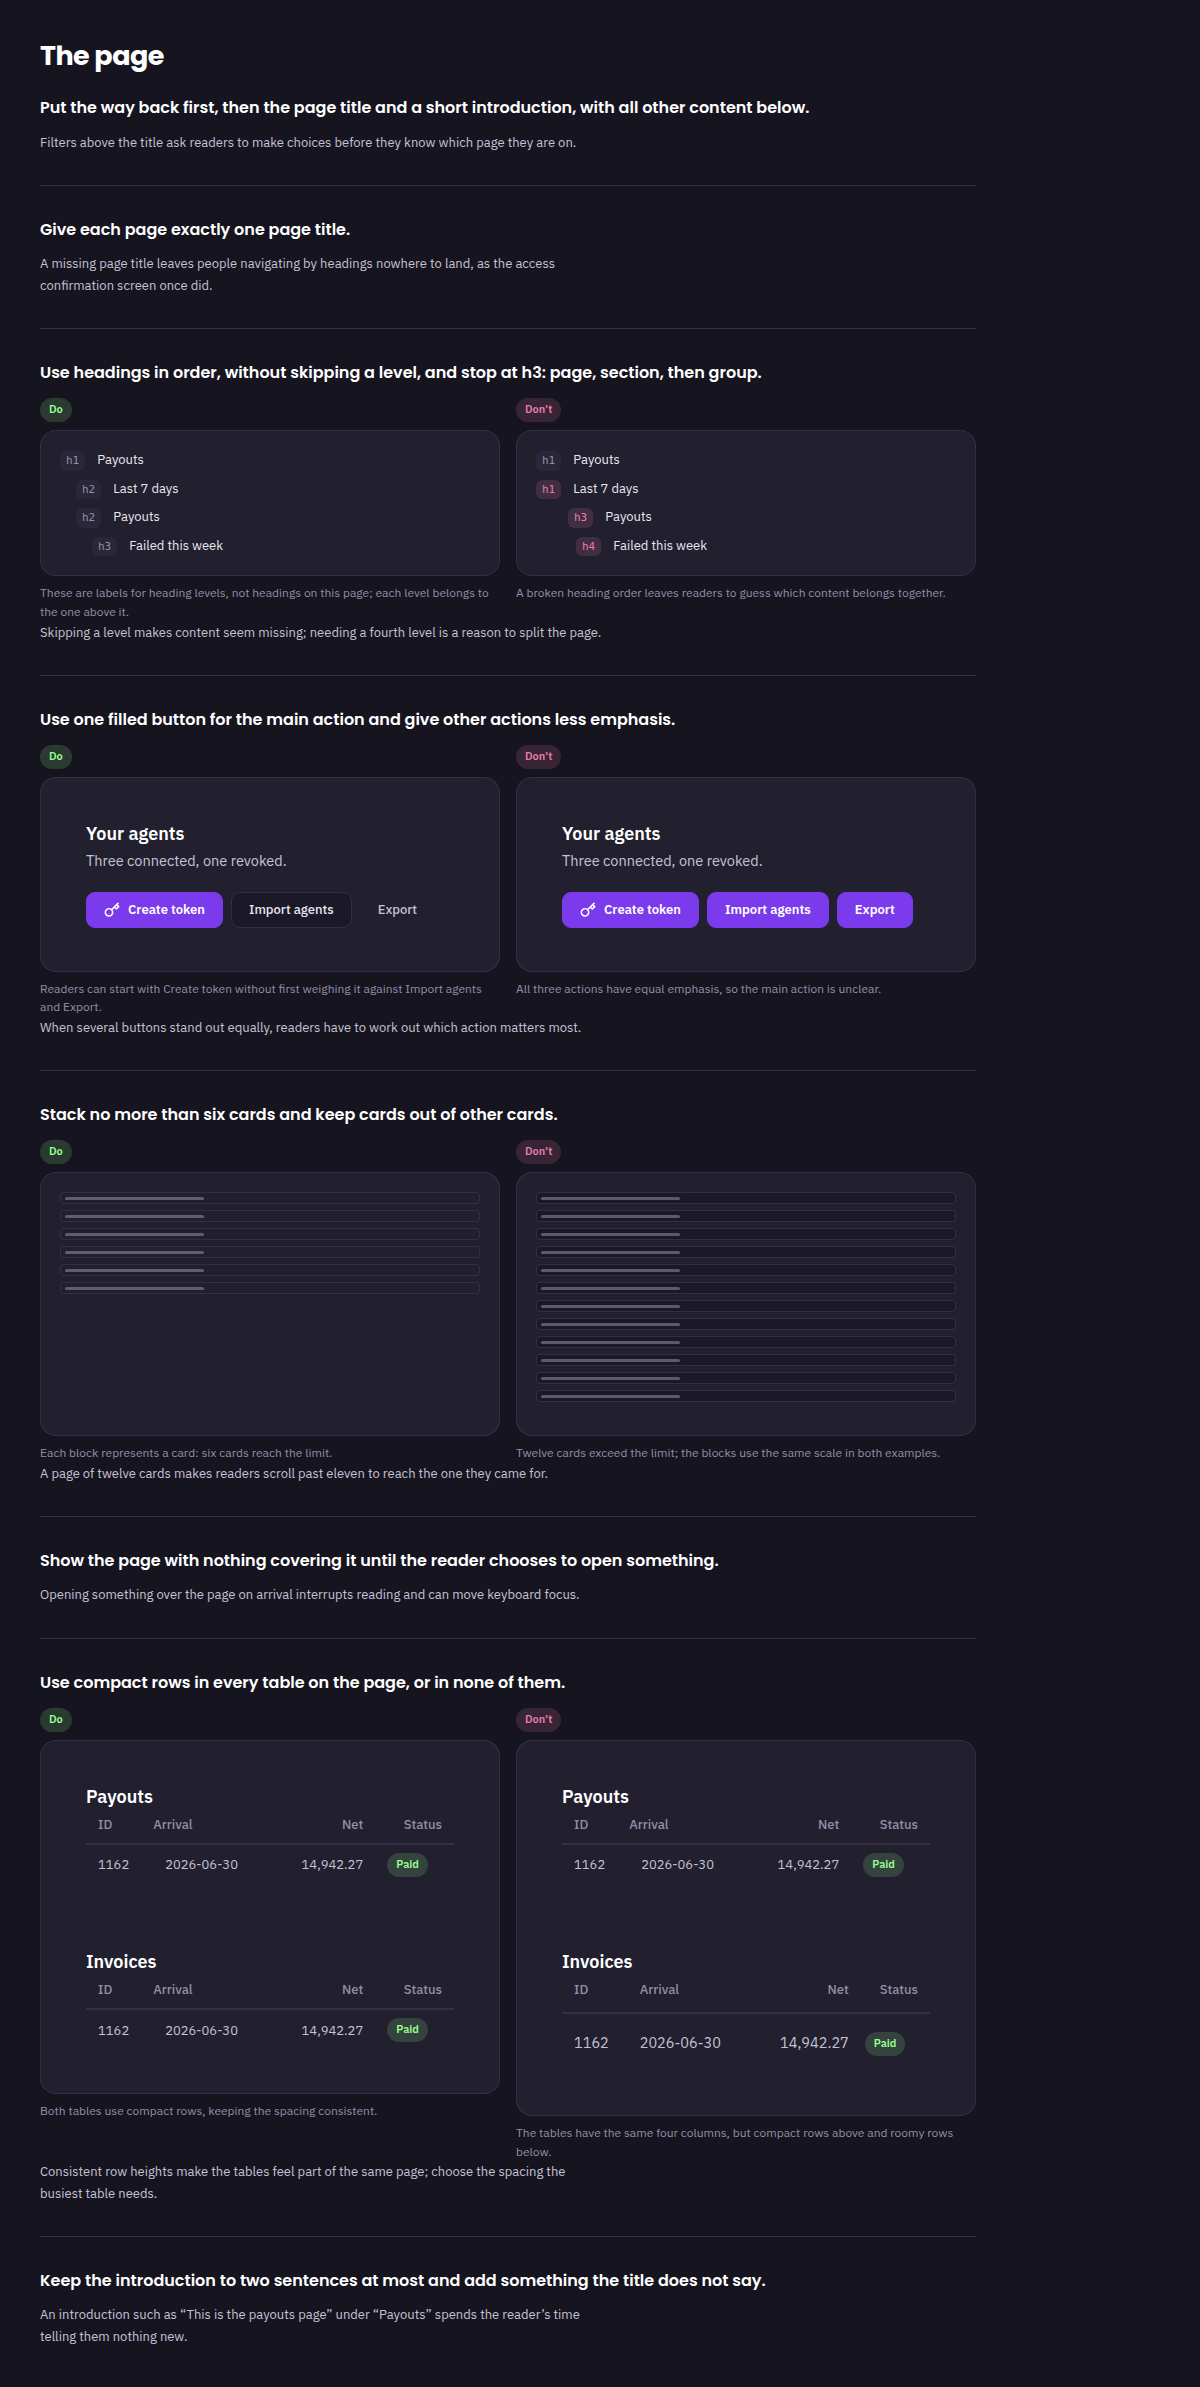
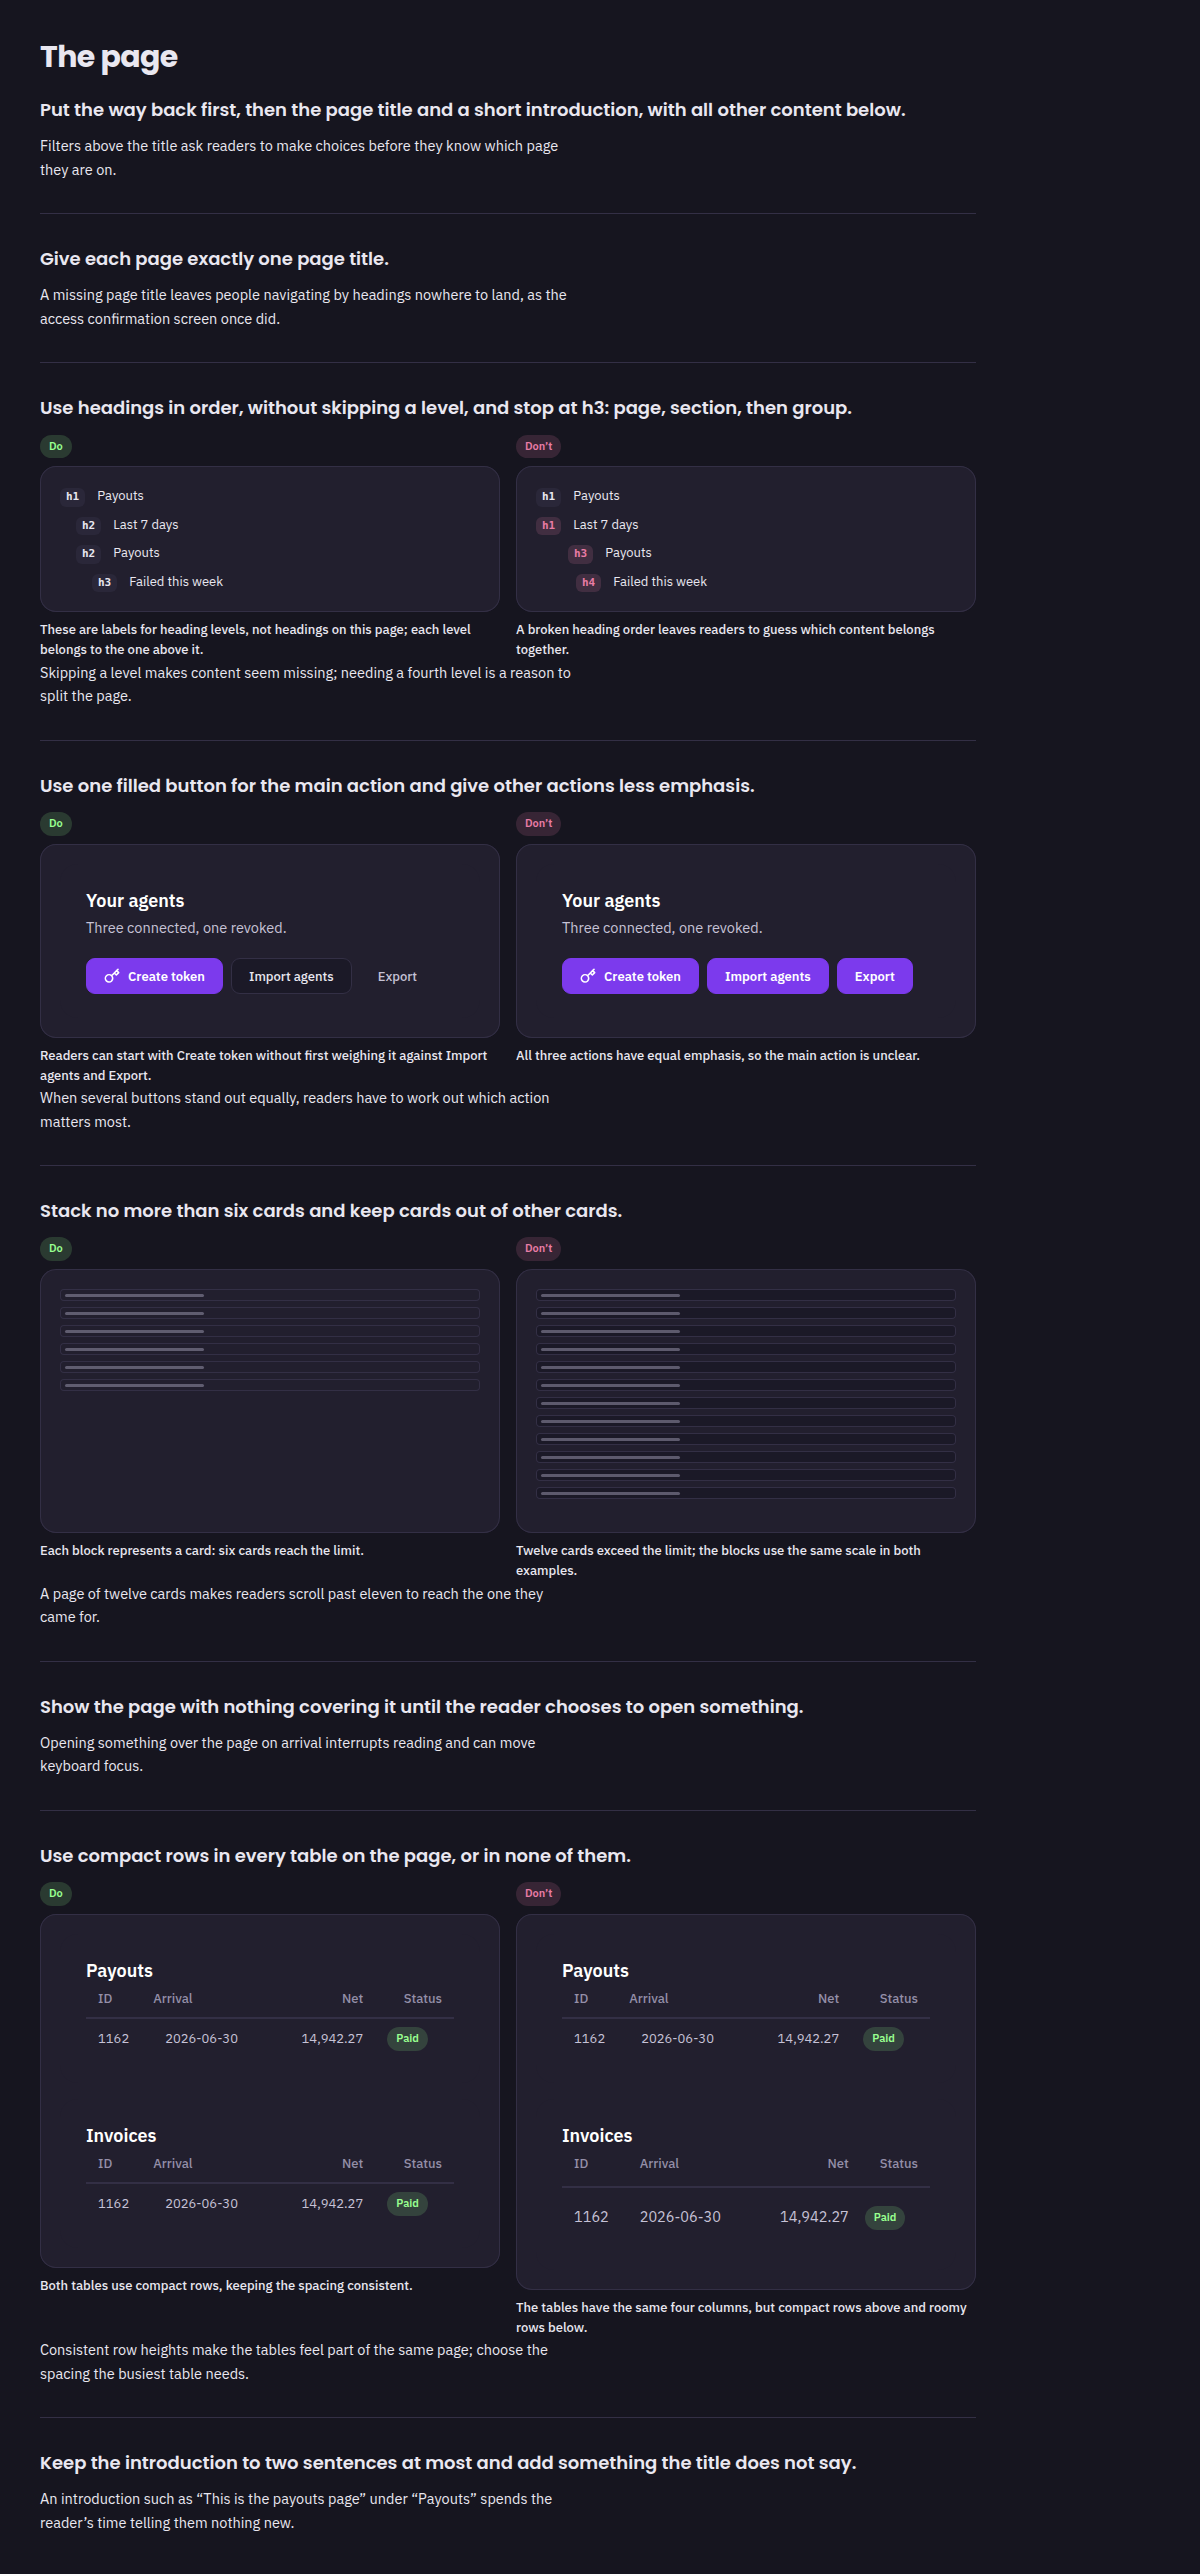
The page: one ink, and the ranks carry the hierarchy (#298)
Artur, 2026-09-13: "avoid using gray colors. use font size to change accent,
not color." This page said rule/why/caption in --strong, --dim and --muted over
four sizes it had invented for itself. Every text on it is var(--text) now, and
each size is a row of the table in docs/specification.md#labels-and-titles:
30 page title, 18 rule, 14.5 why, 13 caption, 11 rank chip.

The four selectors belong to the shared stories/guidelines/_layout.js, which
draws sixteen other guideline pages; they are restated in this page's own sheet,
which the layout emits after the shared one, so only this page moves. Whether
the collection follows is a separate decision.

The rank table has no row for a caption under a specimen, so the caption borrows
the label row for its size and weight and drops that rank's --muted ink. PR.md
names the gap and the cost: label is medium weight, so a caption reads a shade
heavier than the body-weight why under it.

The why's column becomes --prose-body, since --prose-dense is the step for prose
set below 13px and the why is body size now.

Suite: 1426 tests, 1425 pass, 0 fail, 1 skip. Screenshots re-shot at 1200px from
the built Storybook: 2580px light, 2574px dark.

Claude-Session: https://claude.ai/code/session_01RJQzh4pug3NTVgo2H5cm1F

diff --git a/stories/guidelines/_the-page.js b/stories/guidelines/_the-page.js
@@ -23,7 +23,10 @@ export const SPEC_CSS = `
     .tp-out { display: flex; flex-direction: column; gap: var(--space-2); }
     .tp-out__row { display: flex; align-items: baseline; gap: var(--space-3);
       font: 400 13px/1.5 var(--font-sans); color: var(--text); }
-    .tp-out__rank { font: 500 11px/1.6 var(--font-mono); color: var(--muted);
+    /* Rank chip. Longhands and no line-height, because the chip rank inherits
+       one; the ink is the body's, like everything else on this page. */
+    .tp-out__rank { font-family: var(--font-mono); font-size: var(--text-xs);
+      font-weight: var(--weight-semibold); color: var(--text);
       background: var(--surface-3); border-radius: var(--radius-xs); padding: 1px 6px; flex: none; }
     .tp-out__row--2 { padding-left: var(--space-4); }
     .tp-out__row--3 { padding-left: var(--space-8); }
@@ -44,6 +47,27 @@ export const SPEC_CSS = `
 
     .tp-acts { display: flex; gap: var(--space-2); flex-wrap: wrap; }
     .tp-rows { display: flex; flex-direction: column; gap: var(--space-4); }
+
+    /* One ink, and size carries the rank. Every text below is var(--text), and
+       every size is a row of the table in docs/specification.md#labels-and-titles
+       rather than a number of this page's own: 30, 18, 14.5, 13. The selectors
+       belong to stories/guidelines/_layout.js, which draws sixteen other
+       guideline pages, so they are restated here — after it — and only this page
+       moves. No rank note: the gate that reads those sweeps src/, not stories/.
+       why: #298, decided by Artur on 2026-09-13 */
+    .gc > h1 { font-size: var(--text-2xl); font-weight: var(--weight-bold);
+      line-height: 1.1; color: var(--text); }
+    .gc-imperative { font-size: var(--text-lg); font-weight: var(--weight-semibold);
+      line-height: var(--leading-snug); color: var(--text); }
+    /* --prose-body, because the why is body size now; the shared sheet's
+       --prose-dense is the step for prose set below 13px. */
+    .gc-why { font-size: var(--text-base); font-weight: var(--weight-normal);
+      line-height: var(--leading-normal); color: var(--text);
+      max-width: var(--prose-body); }
+    /* The table has no row for a caption under a specimen, so this borrows the
+       row below the why — label — for size and weight, and not its --muted ink. */
+    .gc-cell__cap { font-size: var(--text-sm); font-weight: var(--weight-medium);
+      color: var(--text); }
   </style>`;
 
 const stage = (html) => `<div class="gl-stage">${html}</div>`;

diff --git a/PR.md b/PR.md
@@ -2,6 +2,66 @@
 
 Closes #275.
 
+## Round 8: one ink, and size carries the rank
+
+**Decision — Artur, 2026-09-13:** *"avoid using gray colors. use font size to change accent,
+not color."* This page only.
+
+The page set its hierarchy in three inks — the rule in `--strong`, the why in `--dim`, the
+Do/Don't caption in `--muted` — over four sizes it had invented for itself. Every text on it is
+`var(--text)` now, and every size is a row of the rank table in
+`docs/specification.md#labels-and-titles`:
+
+| what | was | is | rank |
+| ---- | --- | --- | ---- |
+| page title | 27px / 700 / `--strong` | 30px / 700 | `page-title` |
+| rule | 16px / 600 / `--strong` | 18px / 600 | `card-title` |
+| why | 13px / 400 / `--dim` | 14.5px / 400 | `body` |
+| Do/Don't caption | 12px / 400 / `--muted` | 13px / 500 | `label`, borrowed — below |
+| outline rank chip | 11px / 500 / `--muted` | 11px / 600 | `chip` |
+
+Confirmed in the browser: all five compute to `rgb(26, 30, 39)` in light, which is `--text`.
+The only other ink in the page's own text is `--pink`, on the three rank chips of the broken
+outline, which is the Don't saying so and not a hierarchy.
+
+**The rank the table does not have.** There is no row for a caption under a specimen. The five
+rows are `page-title`, `card-title`, `body`, `label` and `chip`, and the `label` row's *what
+takes it* list is eyebrows, table heads, nav and menu captions, footer column titles, a code
+sample's label and a confirmation's eyebrow — not a sentence under a figure. So the caption
+borrows `label`, which is the rank one step below the why and a row of the table rather than a
+number invented here. **This has a visible cost:** `label` is medium weight and `body` is normal,
+so in the screenshots each caption reads a shade heavier than the why printed under it, despite
+being the smaller of the two. A caption row of its own — `--text-sm` at `--weight-normal` —
+would settle it, and that is #292's decision rather than this branch's. What the caption
+does *not* take is the rank's ink: the specification says of `label` that *"its `--muted` ink and
+medium weight now set it apart, which capitals used to do"*, and here the weight does it alone.
+
+**Grey that stays, and why.** Inside the specimens the kit's own components still draw their own
+inks — `.ui-card__title` in `--strong`, `.ui-card__sub` and table cells in `--dim`, table heads in
+`--muted`. Those are the kit rendering itself as evidence; repainting them would make the
+specimens stop showing what a reader will actually build. No token moved.
+
+**Scope.** `stories/guidelines/_the-page.js` only. The four text selectors live in
+`stories/guidelines/_layout.js`, which draws sixteen other guideline pages, so this page restates
+them in its own sheet — which `guidelinePage()` emits after the shared one — instead of editing
+them there. Whether the rest of the collection follows is a separate decision Artur has not taken.
+One token follows the size: the why's column is `--prose-body` rather than the shared sheet's
+`--prose-dense`, because that step is for prose set below 13px and the why is body size now. It is
+539px against 562px — the token being right, not the column moving.
+
+**No gate holds this.** `src/styles/type-ranks.test.js` reads `/* rank: … */` notes out of the
+kit's own stylesheets and does not sweep `stories/`, so the four rules carry no such note: one
+here would be a claim with nothing behind it. They are written as longhands the way that gate
+reads them, against the day its sweep arrives.
+
+Verification: **1426 tests, 1425 pass, 0 fail, 1 skip**, 127.4s — the same 1426 as round 7, and
+this run the contrast wall-clock ceiling came in under its 120s too, so nothing failed. The skip
+is the opt-in theme × accent matrix behind `CONTRAST_ACCENTS=1`. Focused: 76 tests pass across
+`the-page.test.js`, `refs.test.js`, `letter-case.test.js` and `type-ranks.test.js` — both gates
+named in the instruction stay green. Storybook builds. Both screenshots re-shot at 1200px wide from that build after
+`document.fonts.ready`: **1200 × 2580px light**, **1200 × 2574px dark**, eight rules and no code
+references.
+
 ## Round 7: designer-facing guidance
 
 **Decision — Artur, 2026-09-13:** The page carries no code references. Its texts are
@@ -341,7 +401,7 @@ pass, and the only failure was this box's contrast clock.
 **The page itself** — `Guidelines / The page`, rendered in both themes:
 `docs/evidence/the-page-guidelines-dark.png`, `docs/evidence/the-page-guidelines-light.png`.
 Eight rules, four specimen pairs and no code references, captured at 1200px wide:
-2,387px high in dark and 2,393px in light.
+2,574px high in dark and 2,580px in light, after round 8 moved the page onto one ink.
 
 **The two faults** — `docs/evidence/the-page-fixes-dark.png`,
 `docs/evidence/the-page-fixes-light.png`. Top: the consent screen's title as a `div` and as an
